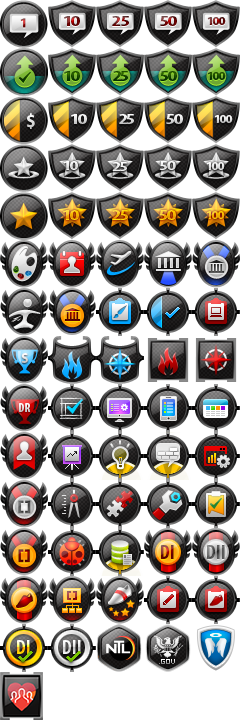
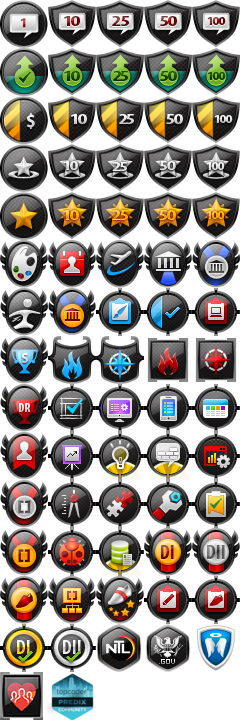
fixes #912 added predix coder badge

Changed region(s): [[0.2042, 0.9167, 0.4083, 1.0]]

diff --git a/app/profile/badges/badges.controller.js b/app/profile/badges/badges.controller.js
@@ -655,6 +655,12 @@ import moment from 'moment-timezone'
         name: 'Crowd for Good',
         groupClass: 'Crowd-for-Good',
         active: false
+      },
+      {
+        id: 1008,
+        name: 'Predix Coder',
+        groupClass: 'Predix-Coder',
+        active: false
       }
     ]
   }

diff --git a/assets/css/directives/badge-tooltip.scss b/assets/css/directives/badge-tooltip.scss
@@ -437,6 +437,9 @@
 .Crowd-for-Good {
   background-position: 0px -672px;
 }
+.Predix-Coder {
+  background-position: -50px -672px;
+}
 .Wireframe {
     width: 31px;
     background-position: 0px -1009px !important;
